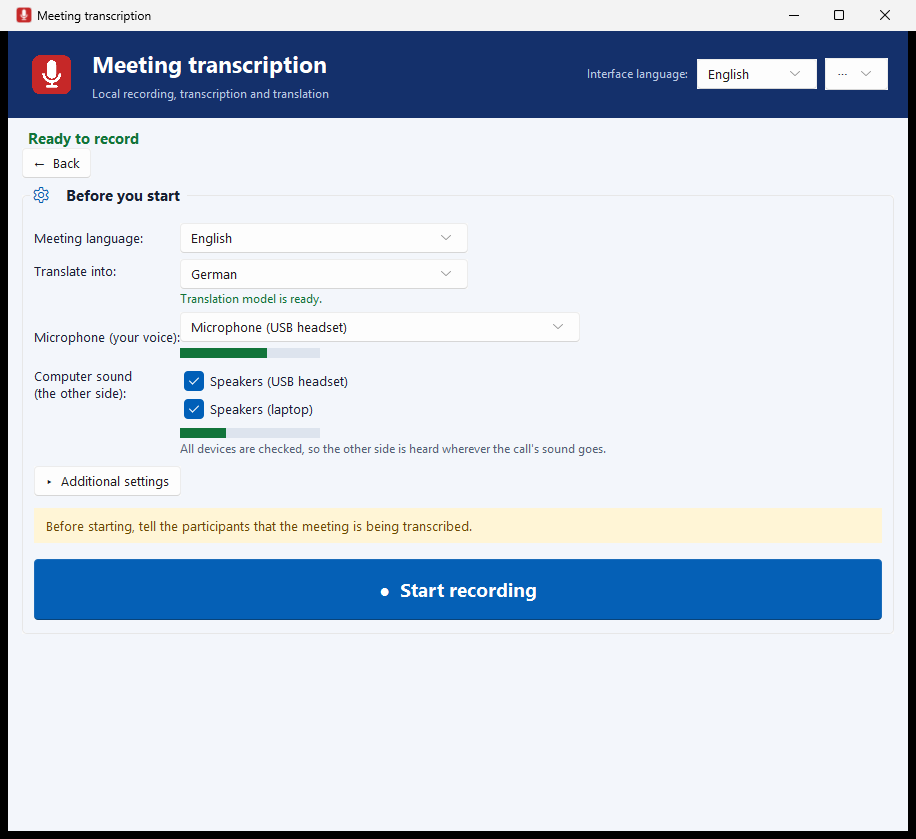
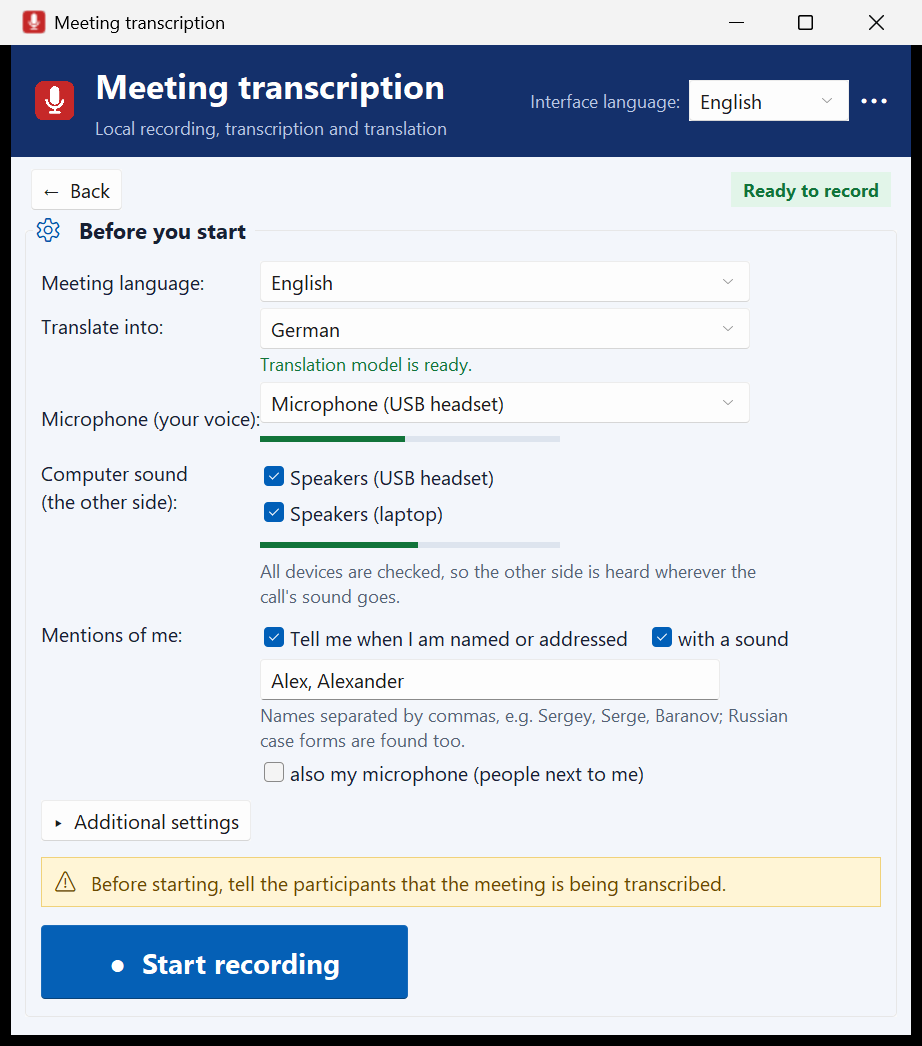
docs: retake README screenshots, add the mention screen
Also shortens the 'also my microphone' option text, which ran past the window edge in English.

Changed region(s): [[0.0, 0.0, 1.0, 0.9917], [0.2751, 0.2479, 0.3668, 0.2789]]

diff --git a/app/ui_text.py b/app/ui_text.py
@@ -370,9 +370,8 @@ TEXTS = {
                          "Namen durch Kommas getrennt, z. B. Sergej, Serge, Baranow; russische Fälle werden mit erkannt.",
                          "Через запятую, например: Сергей, Серёжа, Sergey. Падежи (Сергея, Сергею…) находятся сами."),
     "win.mention_sound": ("with a sound", "mit Ton", "со звуком"),
-    "win.mention_mic": ("also my microphone (people next to me; then my own words count too)",
-                        "auch mein Mikrofon (Personen neben mir; dann zählen auch meine eigenen Worte)",
-                        "также мой микрофон (люди рядом со мной; тогда учитываются и мои слова)"),
+    "win.mention_mic": ("also my microphone (people next to me)", "auch mein Mikrofon (Personen neben mir)",
+                        "также мой микрофон (люди рядом со мной)"),
     "win.mention_empty": ("Enter how you are called, or untick the mention check.",
                           "Geben Sie ein, wie Sie genannt werden, oder schalten Sie die Erwähnungen aus.",
                           "Введите, как вас называют, или снимите галочку обращений."),

diff --git a/README.md b/README.md
@@ -13,7 +13,7 @@ remains available for developers. See the
 [All releases](https://github.com/sbaranau/transcribe/releases/latest) ·
 [User guide in Russian](ИНСТРУКЦИЯ.md)
 
-![The home screen: a dark blue app bar, two equal choices, Meeting now and Existing recording, each with a blue button, the recent results, and the version and copyright at the bottom](docs/screenshots/1-home.png)
+![The home screen: a dark blue app bar, two equal choices, Meeting now and Existing recording, each with a blue button, the recent results as rows with their date, and the version and copyright at the bottom](docs/screenshots/1-home.png)
 
 ## What it does
 
@@ -148,17 +148,24 @@ The live workflow has five explicit states: preparation, translation-model downl
 finishing the last phrases, and creating results. The folder can be edited or chosen with the
 system dialog; less-used options stay under **Additional settings**. During recording, drafts are
 shown separately from confirmed text and the translation column can be hidden temporarily.
-Before the start, level bars show that the microphone and the computer sound are heard.
+Before the start, level bars show that the microphone and the computer sound are heard, and
+you can enter the names you are called by, to be told when somebody addresses you.
 
-![Meeting now on Windows: Back, meeting language, translation into German with its model ready, the microphone and computer sound with their level bars, and the blue Start recording button](docs/screenshots/2-before.png)
+![Meeting now on Windows: Back and the Ready to record state, meeting language, translation into German with its model ready, the microphone and computer sound with their level bars, Mentions of me with the names Alex and Alexander and the sound option, and the blue Start recording button](docs/screenshots/2-before.png)
+
+During the meeting, a mention of your name is highlighted, counted and announced a few seconds
+after it is said: a banner with **Show**, a chime, and a system notification when the window is in
+the background.
+
+![A meeting in progress on Windows: the timer and Recording, the counter Mentions: 1, a yellow banner "You were mentioned (00:24:40): Speaker 2: Alex, can you check the screenshots for the documentation by Friday?" with Show, and the transcript with Alex highlighted and a bar beside that paragraph](docs/screenshots/5-mention.png)
 
 The processing shows its steps while it runs; the full log is under **Details**. When it ends,
 the results come first, and the taskbar button flashes with a notification if the window is in
 the background.
 
 <p>
-<img src="docs/screenshots/3-processing.png" alt="Transcribing a recording on Windows: Stop processing, and the steps Transcription and Speakers running, Translation into German waiting" width="49%">
-<img src="docs/screenshots/4-results.png" alt="The same recording done in 1 minute: a green panel with the blue Open text button, Open translation, Open folder, Change the settings and run again, and Details" width="49%">
+<img src="docs/screenshots/3-processing.png" alt="Transcribing a recording on Windows: the Processing state, Stop processing, and the steps with icons: Transcription running, Speakers and Translation into German waiting" width="49%">
+<img src="docs/screenshots/4-results.png" alt="The same recording done in 1 minute: the Done state, the blue Open text button with Open translation and Open folder beside it, then Change the settings and run again, and Details" width="49%">
 </p>
 
 The results of a recording go into a folder next to it:
